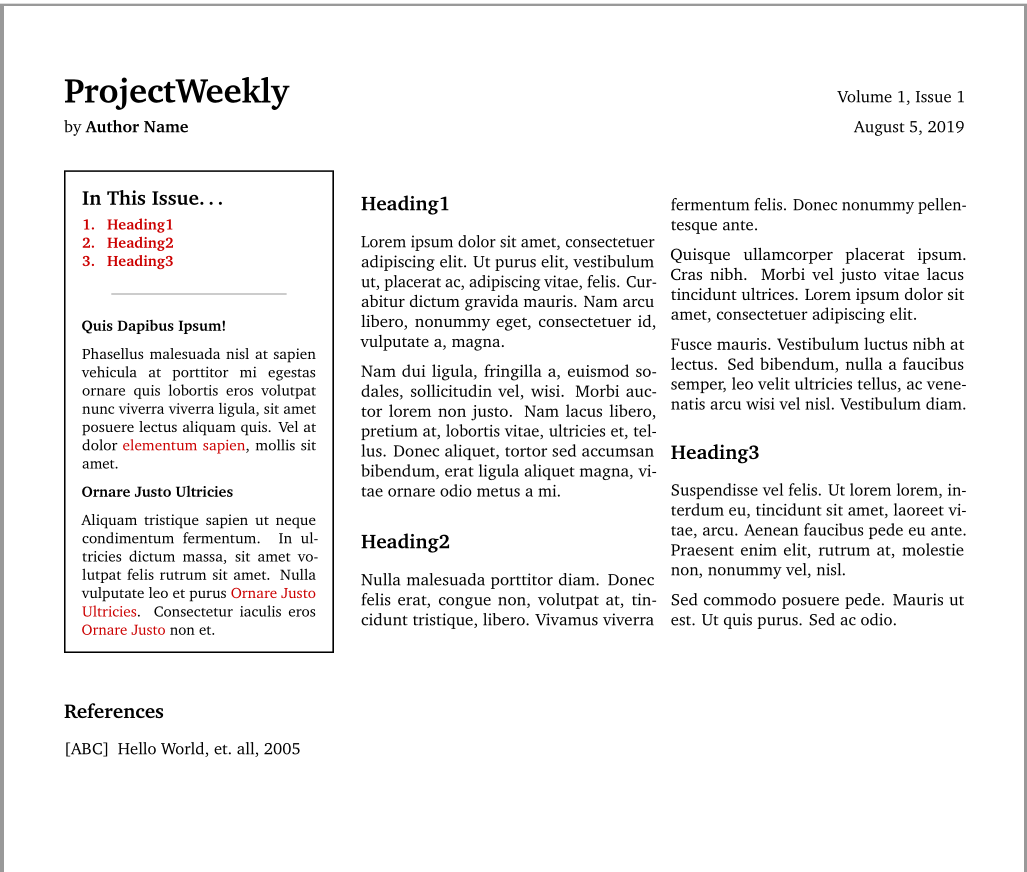
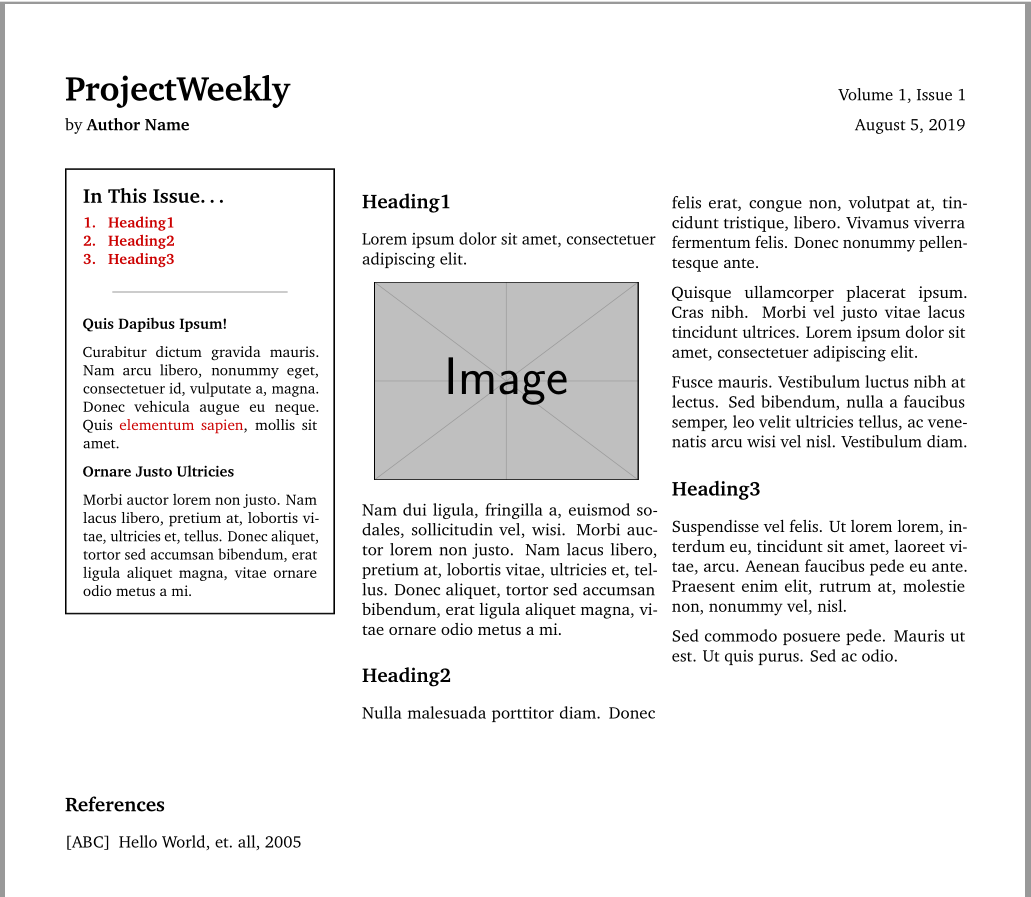
Added image command and updated screenshot

diff --git a/template.tex b/template.tex
@@ -23,6 +23,7 @@
 \usepackage{relsize}
 \usepackage{setspace}
 \usepackage{lipsum}
+\usepackage{mwe}
 \usepackage{booktabs}
 \usepackage{indentfirst}
 \usepackage{titling}
@@ -106,6 +107,14 @@
 \let\Contentsline\contentsline
 \renewcommand\contentsline[3]{\Contentsline{#1}{#2}{}}
 \renewcommand{\cftsecaftersnum}{.}
+\newcommand{\image}[1]{
+\begin{figure}[H]
+\centering
+\vspace*{-0.3em}
+\includegraphics[width=0.9\columnwidth]{#1}
+\vspace*{-0.7em}
+\end{figure}
+}
 
 \renewcommand\refname{\textbf{\large References}}
 
@@ -140,11 +149,11 @@
 \hfill\\
 \textbf{Quis Dapibus Ipsum!}
 
-Phasellus malesuada nisl at sapien vehicula at porttitor mi egestas ornare quis lobortis eros volutpat nunc viverra viverra ligula, sit amet posuere lectus aliquam quis. Vel at dolor \href{http://www.example.com}{elementum sapien}, mollis sit amet.
+\lipsum[1][3-5] Quis \href{http://www.example.com}{elementum sapien}, mollis sit amet.
 
 \textbf{Ornare Justo Ultricies}
 
-Aliquam tristique sapien ut neque condimentum fermentum. In ultricies dictum massa, sit amet volutpat felis rutrum sit amet. Nulla vulputate leo et purus \href{http://www.example.com}{Ornare Justo Ultricies}. Consectetur iaculis eros \href{http://www.example.com}{Ornare Justo} non et.
+\lipsum[2][2-4]
 
 \end{mdframed}
 \end{minipage}\hfill%
@@ -159,7 +168,9 @@ Aliquam tristique sapien ut neque condimentum fermentum. In ultricies dictum mas
 
 \hypertarget{heading1}{\heading{Heading1}}
 
-\lipsum[1][1-4]
+\lipsum[1][1]
+
+\image{example-image}
 
 \lipsum[2][1-4]
 
